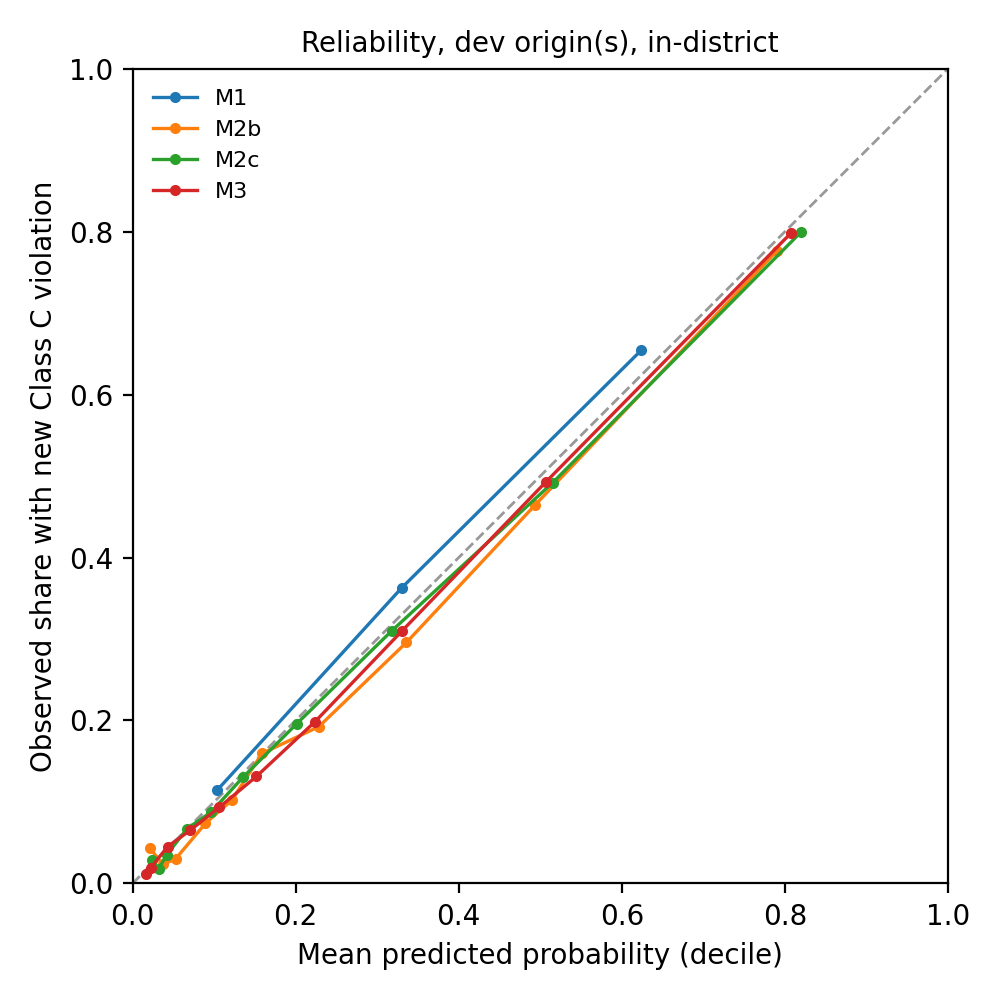
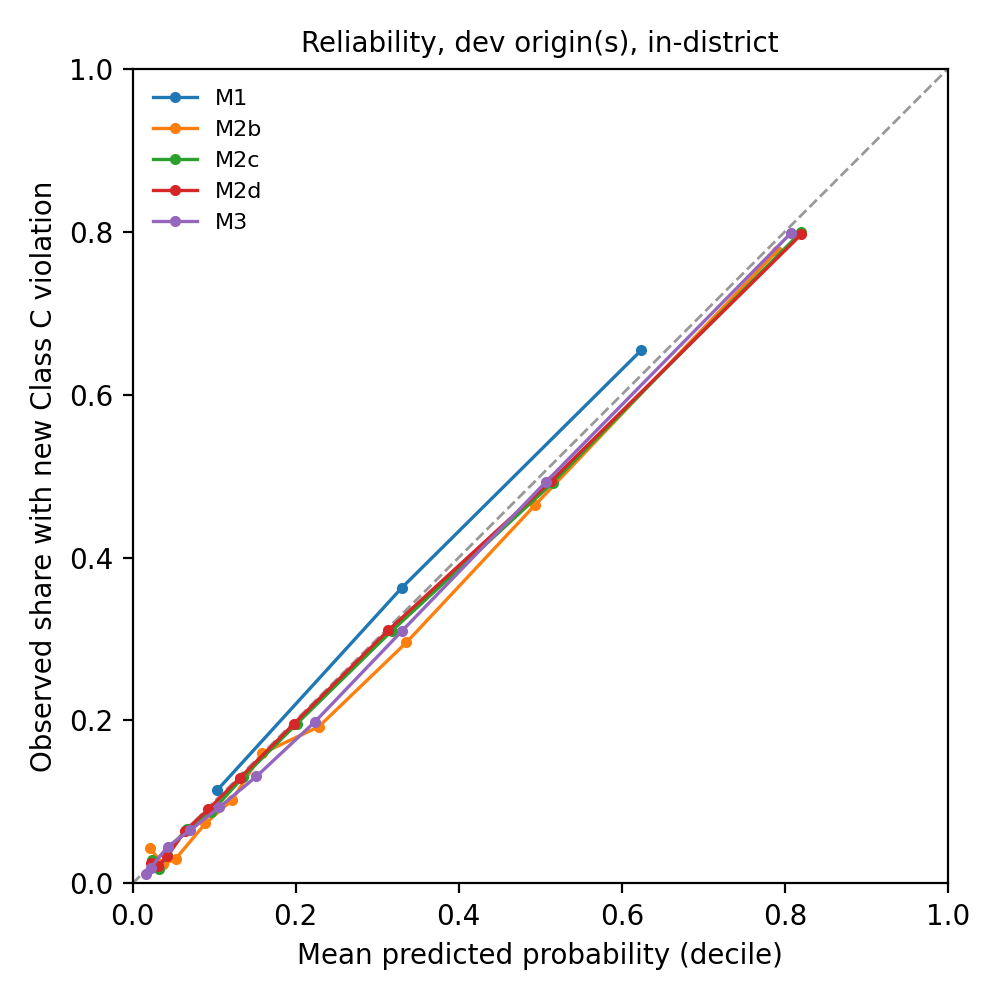
Add M2d (district context) as fifth compared model
Pre-freeze design change, logged in docs/decisions.md. Dev: district O/E
vs event-rate correlation 0.80 -> 0.10; held-out dBrier -0.0007; districts
with <10% recall at a citywide cut 2 -> 8. Paper v0.2, AAG abstract updated.

diff --git a/code/05_evaluate.py b/code/05_evaluate.py
@@ -24,7 +24,7 @@ from sklearn.metrics import roc_auc_score
 
 from common import FIGURES, OUT, SEED, TABLES, TOP_K_SHARE
 
-PROB_MODELS = ["M1", "M2a", "M2b", "M2c", "M3"]
+PROB_MODELS = ["M1", "M2a", "M2b", "M2c", "M2d", "M3"]
 B = 500
 
 
@@ -104,21 +104,23 @@ def reliability_plot(df, cols, path, title):
     fig.tight_layout(); fig.savefig(path, dpi=200); plt.close(fig)
 
 
-def district_plot(by, model, path):
-    """Observed/expected by district against district event rate (H4)."""
-    fig, ax = plt.subplots(figsize=(5.5, 4))
-    for held, mk, lab in [(0, "o", "in-district"), (1, "^", "held-out district")]:
-        d = by[by["held_out"] == held]
-        ax.scatter(d["event_rate"], d["o_e_ratio"], s=d["n"] / 40, marker=mk,
-                   alpha=0.7, label=lab, edgecolor="white", linewidth=0.5)
-    ax.axhline(1, color="#999", lw=1, ls="--")
-    for _, r in by[(by["o_e_ratio"] < 0.6) | (by["o_e_ratio"] > 1.1)].iterrows():
-        ax.annotate(str(int(r["cd"])), (r["event_rate"], r["o_e_ratio"]), fontsize=7,
-                    xytext=(3, 3), textcoords="offset points", color="#444")
-    ax.set_xlabel("District event rate (share of scored buildings with a new Class C)")
-    ax.set_ylabel("Observed / expected ({})".format(model))
-    ax.spines[["top", "right"]].set_visible(False)
-    ax.legend(frameon=False, fontsize=8, loc="lower right")
+def district_plot(bys, path):
+    """Observed/expected by district against district event rate, one panel per model (H4)."""
+    fig, axes = plt.subplots(1, len(bys), figsize=(5 * len(bys), 4), sharey=True)
+    for ax, (model, by) in zip(np.atleast_1d(axes), bys.items()):
+        for held, mk, lab in [(0, "o", "in-district"), (1, "^", "held-out district")]:
+            d = by[by["held_out"] == held]
+            ax.scatter(d["event_rate"], d["o_e_ratio"], s=d["n"] / 40, marker=mk,
+                       alpha=0.7, label=lab, edgecolor="white", linewidth=0.5)
+        ax.axhline(1, color="#999", lw=1, ls="--")
+        for _, r in by[(by["o_e_ratio"] < 0.6) | (by["o_e_ratio"] > 1.1)].iterrows():
+            ax.annotate(str(int(r["cd"])), (r["event_rate"], r["o_e_ratio"]), fontsize=7,
+                        xytext=(3, 3), textcoords="offset points", color="#444")
+        ax.set_title(model, fontsize=10)
+        ax.set_xlabel("District event rate")
+        ax.spines[["top", "right"]].set_visible(False)
+    np.atleast_1d(axes)[0].set_ylabel("Observed / expected")
+    np.atleast_1d(axes)[0].legend(frameon=False, fontsize=8, loc="lower right")
     fig.tight_layout(); fig.savefig(path, dpi=200); plt.close(fig)
 
 
@@ -142,42 +144,56 @@ def main(stage):
                                                "auc", "o_e_ratio", "cal_slope"]]
     print(show.round(4).to_string(index=False))
 
-    # 2. Paired model contrasts on the in-district rows (RQ1-RQ3).
-    ind = df[df["spatial_holdout"] == 0]
-    pairs = [("M2b", "M2a", "H1: timing/type vs counts"),
-             ("M2a", "M1", "logistic counts vs binned baseline"),
-             ("M2c", "M2b", "H2: + complaints"),
-             ("M3", "M2c", "H3: boosting vs logistic")]
+    # 2. Paired model contrasts (RQ1-RQ4). H1-H3 on in-district rows; the
+    #    district-context contrast also on held-out districts, where it matters.
+    pairs = [("M2b", "M2a", "H1: timing/type vs counts", "in_district"),
+             ("M2a", "M1", "logistic counts vs binned baseline", "in_district"),
+             ("M2c", "M2b", "H2: + complaints", "in_district"),
+             ("M3", "M2c", "H3: boosting vs logistic", "in_district"),
+             ("M2d", "M2c", "H4b: + district context", "in_district"),
+             ("M2d", "M2c", "H4b: + district context", "held_out_district")]
     con = []
-    for a, b, lab in pairs:
-        est, lo, hi = paired_bootstrap(ind, a, b)
-        con.append(dict(contrast="{} - {}".format(a, b), hypothesis=lab,
+    for a, b, lab, split in pairs:
+        d = df[df["spatial_holdout"] == int(split == "held_out_district")]
+        est, lo, hi = paired_bootstrap(d, a, b)
+        con.append(dict(contrast="{} - {}".format(a, b), hypothesis=lab, split=split,
                         d_brier=est, ci_lo=lo, ci_hi=hi))
     con = pd.DataFrame(con)
     con.to_csv(TABLES/"{}_contrasts.csv".format(stage), index=False)
     print(con.to_string(index=False))
 
-    # 3. Community-district reliability (RQ4). Threshold for recall is the
-    #    citywide top-10% cut, as a product would apply it.
-    best = "M2c" if "M2c" in df else probs[0]
-    cut = np.sort(df[best].values)[::-1][max(1, int(len(df) * TOP_K_SHARE)) - 1]
-    d = df.dropna(subset=["cd"]).assign(flag=lambda x: x[best] >= cut)
+    # 3. Community-district reliability (RQ4), with and without district
+    #    context. Recall uses each model's citywide top-10% cut, as a product
+    #    would apply it.
+    bys = {}
+    for model in ("M2c", "M2d"):
+        by = by_district(df, model)
+        by.to_csv(TABLES/"{}_by_cd_{}.csv".format(stage, model), index=False)
+        print("O/E across districts ({}): median {:.2f}, IQR {:.2f}-{:.2f}, range {:.2f}-{:.2f}; "
+              "recall at citywide cut {:.2f}-{:.2f}; Spearman(O/E, event rate) {:.2f}".format(
+                  model, by["o_e_ratio"].median(), *by["o_e_ratio"].quantile([.25, .75]),
+                  by["o_e_ratio"].min(), by["o_e_ratio"].max(),
+                  by["recall_citywide_cut"].min(), by["recall_citywide_cut"].max(),
+                  by[["o_e_ratio", "event_rate"]].corr("spearman").iloc[0, 1]))
+        bys[model] = by
+    district_plot(bys, FIGURES/"{}_district_calibration.png".format(stage))
+    ind = df[df["spatial_holdout"] == 0]
+    reliability_plot(ind, ["M1", "M2b", "M2c", "M2d", "M3"], FIGURES/"{}_reliability.png".format(stage),
+                     "Reliability, {} origin(s), in-district".format(stage))
+
+
+def by_district(df, model):
+    cut = np.sort(df[model].values)[::-1][max(1, int(len(df) * TOP_K_SHARE)) - 1]
+    d = df.dropna(subset=["cd"]).assign(flag=lambda x: x[model] >= cut)
     by = d.groupby("cd").apply(lambda g: pd.Series({
         "n": len(g), "events": g["y"].sum(), "event_rate": g["y"].mean(),
-        "mean_pred": g[best].mean(), "o_e_ratio": g["y"].mean() / g[best].mean(),
-        "brier": np.mean((g[best] - g["y"]) ** 2),
+        "mean_pred": g[model].mean(), "o_e_ratio": g["y"].mean() / g[model].mean(),
+        "brier": np.mean((g[model] - g["y"]) ** 2),
         "recall_citywide_cut": g.loc[g["flag"], "y"].sum() / max(1, g["y"].sum()),
         "share_flagged": g["flag"].mean(),
         "c365_mean": g["c365"].mean(),
         "held_out": int(g["spatial_holdout"].iat[0])}))
-    by.reset_index().to_csv(TABLES/"{}_by_cd_{}.csv".format(stage, best), index=False)
-    print("\nO/E across districts ({}): median {:.2f}, IQR {:.2f}-{:.2f}, range {:.2f}-{:.2f}".format(
-        best, by["o_e_ratio"].median(), *by["o_e_ratio"].quantile([.25, .75]),
-        by["o_e_ratio"].min(), by["o_e_ratio"].max()))
-
-    district_plot(by.reset_index(), best, FIGURES/"{}_district_calibration.png".format(stage))
-    reliability_plot(ind, ["M1", "M2b", "M2c", "M3"], FIGURES/"{}_reliability.png".format(stage),
-                     "Reliability, {} origin(s), in-district".format(stage))
+    return by.reset_index()
 
 
 if __name__ == "__main__":

diff --git a/code/03_build_panel.py b/code/03_build_panel.py
@@ -126,6 +126,31 @@ def build_origin(v, c, t, top_cats):
     return df.drop(columns=["last_c", "first_c", "first_comp"]).reset_index()
 
 
+CD_CONTEXT = ["cd_share_c365", "cd_share_c90", "cd_mean_comp365"]
+
+
+def add_district_context(panel):
+    """District-level context known at t (M2d): built from features, never outcomes.
+
+    For each community district x origin, over in-scope buildings:
+      cd_share_c365    share with any Class C in the past year
+      cd_share_c90     share with any Class C in the past 90 days
+      cd_mean_comp365  mean log(1 + complaints in the past year)
+    Buildings without a district get the citywide value at that origin.
+    Held-out districts get their own context: it uses only their records up to
+    t, never their outcomes and never anything learned in fitting.
+    """
+    x = panel.assign(_c365=(panel["c365"] > 0).astype(float),
+                     _c90=(panel["c90"] > 0).astype(float),
+                     _comp=np.log1p(panel["comp365"]))
+    agg = {"_c365": "cd_share_c365", "_c90": "cd_share_c90", "_comp": "cd_mean_comp365"}
+    for src, dst in agg.items():
+        by_cd = x.groupby(["origin", "cd"])[src].transform("mean")
+        city = x.groupby("origin")[src].transform("mean")
+        panel[dst] = by_cd.fillna(city)
+    return panel
+
+
 def building_geo(v):
     """Locate each building in a community district for spatial analysis.
 
@@ -180,6 +205,7 @@ if __name__ == "__main__":
     geo = building_geo(v)
     geo.to_csv(FINAL/"buildings_geo.csv", index=False)
     panel = panel.merge(geo[["buildingid", "cd"]], on="buildingid", how="left")
+    panel = add_district_context(panel)
     panel.to_parquet(FINAL/"panel.parquet", index=False)
     print("panel rows {:,}; buildings {:,}; missing CD {:.2%}".format(
         len(panel), panel["buildingid"].nunique(), panel["cd"].isna().mean()))

diff --git a/code/04_models.py b/code/04_models.py
@@ -5,6 +5,7 @@
   M2a  logistic: counts + season
   M2b  logistic: + timing, repetition, problem type, history length
   M2c  logistic: + complaints
+  M2d  logistic: + district context known at t (added 2026-10-06, pre-freeze)
   M3   gradient boosting on the M2c inputs
 
 The layers are compared, not chained: no model consumes another's output.
@@ -37,6 +38,7 @@ KAPPA = 20  # M1 smoothing strength (pseudo-observations at the overall rate)
 COUNTS = ["c365", "c90"]
 TIMING = ["days_since_c", "never_c", "c730", "c365_days", "c365_months", "trend",
           "c365_rentimp", "history_months"]
+CD_CONTEXT = ["cd_share_c365", "cd_share_c90", "cd_mean_comp365"]  # see 03_build_panel.py
 COMPLAINTS_BASE = ["comp90", "comp365", "comp730", "comp365_emerg", "comp365_months",
                    "comp_trend"]
 
@@ -47,7 +49,8 @@ def feature_sets(cols):
     m2a = COUNTS + ["half_jul"]
     m2b = m2a + TIMING + cat
     m2c = m2b + COMPLAINTS_BASE + ccat
-    return {"M2a": m2a, "M2b": m2b, "M2c": m2c, "M3": m2c}
+    m2d = m2c + CD_CONTEXT
+    return {"M2a": m2a, "M2b": m2b, "M2c": m2c, "M2d": m2d, "M3": m2c}
 
 
 def spec_hash(fs):
@@ -85,7 +88,8 @@ def _log1p_nonneg(X):
 
 def make_lr(C, cols):
     tf = FunctionTransformer(lambda X: np.column_stack([
-        _log1p_nonneg(X[:, i]) if c not in ("trend", "comp_trend", "half_jul", "never_c")
+        _log1p_nonneg(X[:, i])
+        if c not in ("trend", "comp_trend", "half_jul", "never_c") and not c.startswith("cd_")
         else X[:, i] for i, c in enumerate(cols)]))
     return make_pipeline(tf, StandardScaler(),
                          LogisticRegression(C=C, max_iter=2000))

diff --git a/paper/manuscript.md b/paper/manuscript.md
@@ -2,7 +2,7 @@
 
 **Author.** Hsuan Lo, DDes (Harvard University). Independent Researcher. Correspondence: hsuanlo@alumni.harvard.edu
 
-**Status.** Working paper v0.1, 6 October 2026. Sections 1–6 are complete drafts. Section 7 reports **development-stage** results only (prediction origin 1 January 2023), produced before the model specification was frozen. The 2024–2025 test origins are sealed in code and have not been scored. Every number marked ⟨dev⟩ will be superseded by test-set results. Placeholders read `[[TEST: …]]`.
+**Status.** Working paper v0.2, 6 October 2026 (v0.2 adds M2d, district context). Sections 1–6 are complete drafts. Section 7 reports **development-stage** results only (prediction origin 1 January 2023), produced before the model specification was frozen. The 2024–2025 test origins are sealed in code and have not been scored. Every number marked ⟨dev⟩ will be superseded by test-set results. Placeholders read `[[TEST: …]]`.
 
 ---
 
@@ -10,7 +10,7 @@
 
 *(Working-paper abstract. The 250-word AAG version is in `paper/abstract_aag2027.md`.)*
 
-A renter about to sign a lease in New York City can look up a building's housing-code record, but a list of past violations does not say whether hazards are likely to recur. We ask whether the timing, type and repetition of public maintenance records predict a new immediately hazardous (Class C) violation in the next six months better than a simple count does, and where in the city that predictive ability holds. Using every Class C violation and housing-maintenance complaint recorded by the Department of Housing Preservation and Development since 2017, we build a building-by-half-year panel and compare three layers of increasing complexity: a smoothed count baseline, nested logistic regressions that add event history and complaints, and gradient boosting. The design is built against leakage. Features use only records approved at least 30 days before each prediction date. Today's case status and building attributes are excluded. The model is frozen before it is scored on 2024–2025. A fifth of community districts is withheld from all fitting so that spatial transfer can be separated from temporal drift. We evaluate probabilities, not only rankings, with the Brier score, calibration and precision at a fixed 10% review budget. At the development origin, ⟨dev⟩ event history reduced the Brier score by 9.8% relative to a count-only logistic model, and complaints by a further 5.4%. Gradient boosting added nothing measurable over logistic regression. Among the top-scored 10% of buildings, 80% received a Class C violation within six months, against 71% when buildings were ranked by their violation count alone. Citywide calibration was good, but district-level observed-to-expected ratios ranged from 0.33 to 1.13 and tracked district event rates closely (Spearman ρ = 0.80). Under a citywide threshold, the share of eventual hazards flagged within a district ranged from 6% to 63%. Recorded Class C violations more than tripled between 2015 and 2024, so calibration under enforcement drift is a central result rather than a technicality. Finally, we link 3,885 active rental listings to the building register to measure how much of the market any record-based warning can cover. Where records are sparse, a low score is an absence of evidence, and the paper treats that absence as a geographic finding about whose housing problems become visible to the state.
+A renter about to sign a lease in New York City can look up a building's housing-code record, but a list of past violations does not say whether hazards are likely to recur. We ask whether the timing, type and repetition of public maintenance records predict a new immediately hazardous (Class C) violation in the next six months better than a simple count does, and where in the city that predictive ability holds. Using every Class C violation and housing-maintenance complaint recorded by the Department of Housing Preservation and Development since 2017, we build a building-by-half-year panel and compare three layers of increasing complexity: a smoothed count baseline, nested logistic regressions that add event history, complaints and finally district context, and gradient boosting. The design is built against leakage. Features use only records approved at least 30 days before each prediction date. Today's case status and building attributes are excluded. The model is frozen before it is scored on 2024–2025. A fifth of community districts is withheld from all fitting so that spatial transfer can be separated from temporal drift. We evaluate probabilities, not only rankings, with the Brier score, calibration and precision at a fixed 10% review budget. At the development origin, ⟨dev⟩ event history reduced the Brier score by 9.8% relative to a count-only logistic model, and complaints by a further 5.4%. Gradient boosting added nothing measurable over logistic regression. Among the top-scored 10% of buildings, 80% received a Class C violation within six months, against 71% when buildings were ranked by their violation count alone. Citywide calibration was good, but without place information district-level observed-to-expected ratios ranged from 0.33 to 1.13 and tracked district event rates closely (Spearman ρ = 0.80). Adding district context known at the prediction date removed most of that pattern (ρ = 0.10). It also reduced the number of districts miscalibrated by more than 20% from eight to two, at almost no cost in overall accuracy. Better calibration, however, sharpened a second inequality. Under a single citywide warning threshold, the number of districts in which fewer than one in ten eventual hazards is flagged rose from two to eight. A well-calibrated citywide score and an evenly informative warning are different goals. Recorded Class C violations more than tripled between 2015 and 2024, so calibration under enforcement drift is a central result rather than a technicality. Finally, we link 3,885 active rental listings to the building register to measure how much of the market any record-based warning can cover. Where records are sparse, a low score is an absence of evidence, and the paper treats that absence as a geographic finding about whose housing problems become visible to the state.
 
 **Keywords:** housing quality, code enforcement, administrative data, predictive modeling, calibration, spatial transferability, rental information, New York City
 
@@ -27,7 +27,7 @@ The question is easy to answer badly. Administrative housing records are generat
 We make three contributions.
 
 1. **Incremental predictive value.** We compare nested models on identical rows and test whether event history (recency, burstiness versus repetition, problem type) and complaint signals add information beyond the count a renter could compute by eye. Gradient boosting has to beat logistic regression on the same inputs, out of time and out of place, before its complexity is accepted.
-2. **Spatial reliability as an outcome.** We withhold a fifth of community districts from all model fitting. Comparing those districts with the rest at the same prediction date separates spatial transfer from temporal drift. We report calibration (whether a predicted 20% means 20%) by district, not only citywide discrimination.
+2. **Spatial reliability as an outcome.** We withhold a fifth of community districts from all model fitting. Comparing those districts with the rest at the same prediction date separates spatial transfer from temporal drift. We report calibration (whether a predicted 20% means 20%) by district, not only citywide discrimination. We then test how much of the district-level error is removed by giving the model place information known at the prediction date.
 3. **Coverage and abstention.** Linking 3,885 active rental listings to HPD buildings, we measure the share of the market for which a record-based warning can be offered at all. We argue that "no record" must be presented as missing evidence, not as safety.
 
 These contributions fit the 2027 AAG theme on geographic methods, tools and techniques for knowledge and justice. The geographic object is not a risk map. It is the uneven reliability of a public-data tool across the city it claims to describe.
@@ -105,7 +105,8 @@ A building is in scope at *t* if it had any Class C violation or HPD complaint i
 | Season | July-origin indicator | all |
 | Timing and repetition | days since last Class C; 2-year count; distinct inspection days and months in the last year; trend; history length | M2b+ |
 | Severity and type | rent-impairing count; counts by 11 problem types (last year) | M2b+ |
-| Complaints | complaints in 90/365/730 days; emergency problems; distinct complaint months; complaint trend; counts in 8 major categories | M2c, M3 |
+| Complaints | complaints in 90/365/730 days; emergency problems; distinct complaint months; complaint trend; counts in 8 major categories | M2c, M2d, M3 |
+| District context | share of the district's in-scope buildings with a Class C in the last 365 / 90 days; district mean log(1 + past-year complaints). All computed from features at *t*, never outcomes | M2d |
 
 Trend is a difference in daily event rates between the last 90 days and the preceding 275, $C^{90}/90 - (C^{365} - C^{90})/275$. With nine events in each period, the last 90 days run at about three times the earlier daily rate and trend ≈ +0.067 per day. A raw difference $C^{90} - C^{365}$ would read this building as flat or declining.
 
@@ -119,11 +120,13 @@ A bin with 100 observations and 20 events, with $\bar p$ = 10%, gives $(20+2)/12
 
 **M2, logistic regression.** Three nested specifications use the same estimator,
 $$\hat p^{(2)}_{it} = \sigma(\eta_{it}),\quad \eta_{it} = \alpha + \beta_1\log(1+C^{365}_{it}) + \beta_2\log(1+C^{90}_{it}) + \theta^\top Z_{it} + \gamma\,\text{Jul}_t,$$
-where $Z$ is empty in M2a, adds timing, repetition and type in M2b, and adds complaints in M2c. Counts enter as $\log(1+x)$ and all inputs are standardized. The L2 penalty is selected on the tuning origin. Coefficients are conditional associations, not effects.
+where $Z$ is empty in M2a, adds timing, repetition and type in M2b, adds complaints in M2c, and adds district context in M2d. Counts enter as $\log(1+x)$ and all inputs are standardized. The L2 penalty is selected on the tuning origin. Coefficients are conditional associations, not effects.
 
 **M3, gradient boosting.** A histogram gradient-boosted tree ensemble,
 $$F_M(X) = F_0 + \nu\sum_{m=1}^{M} f_m(X),\qquad \hat p^{(3)} = \sigma(F_M(X)),$$
 is fit on the M2c inputs, with early stopping and a small grid over learning rate and leaf count selected on the tuning origin. M3 can represent interactions such as "recent complaints matter only when the same problem recurs across months" without their being specified. If it does not beat M2c out of time and out of place, M2c is preferred.
+
+**M2d, district context (added before the freeze).** M2a–M2c and M3 contain no information about place. M2d adds three district-level features to M2c, each computed at *t* from the in-scope buildings of the building's community district: the share with any Class C in the past year, the share with any in the past 90 days, and the mean log past-year complaint count. These summarize the district's *recorded* hazard environment using only information available at *t*. Held-out districts receive their own context values, which depend only on their records up to *t*, never on their outcomes or on anything learned in fitting. M2d was added after the development results in Section 7.3 showed systematic district-level miscalibration, and before any test-origin scoring (`docs/decisions.md`). It is a fifth compared model, not a replacement for M2c. Comparing M2c with M2d asks how much of the spatial unreliability of a place-blind model is removed by telling it where it is.
 
 ## 6. Validation and evaluation
 
@@ -190,17 +193,19 @@ The panel has 832,020 building-origin rows covering 158,612 buildings. 0.05% of 
 | | M2a counts | 0.1288 | 0.242 | 0.719 | 0.332 | 0.768 | 1.07 | 1.00 |
 | | M2b + history and type | 0.1162 | 0.317 | 0.776 | 0.359 | 0.841 | 0.93 | 0.99 |
 | | M2c + complaints | **0.1099** | **0.354** | **0.799** | **0.369** | 0.860 | 0.96 | 0.99 |
+| | M2d + district context | **0.1098** | **0.354** | 0.797 | 0.368 | 0.861 | 0.97 | 0.99 |
 | | M3 boosting | **0.1098** | **0.354** | 0.798 | 0.369 | **0.864** | 0.95 | 1.02 |
 | Held-out districts | M1r | — | — | 0.662 | 0.338 | 0.790 | — | — |
 | | M1 | 0.1251 | 0.205 | 0.619 | 0.316 | 0.754 | 1.01 | 0.99 |
 | | M2a | 0.1220 | 0.225 | 0.658 | 0.336 | 0.759 | 1.01 | 0.99 |
 | | M2b | 0.1120 | 0.288 | 0.711 | 0.364 | 0.831 | 0.90 | 0.95 |
 | | M2c | 0.1065 | 0.323 | 0.738 | 0.377 | 0.848 | 0.94 | 0.95 |
-| | M3 | 0.1059 | 0.327 | 0.746 | 0.381 | 0.855 | 0.92 | 0.99 |
+| | M2d | **0.1059** | **0.327** | **0.749** | **0.383** | 0.851 | 0.94 | 0.95 |
+| | M3 | **0.1059** | **0.327** | 0.746 | 0.381 | **0.855** | 0.92 | 0.99 |
 
 M1r, a plain sort by past-year count, ranks better than the binned M1 because the bins discard within-bin ordering. It produces no probability, so it has no Brier score.
 
-**Table 6. Paired differences in Brier score, in-district rows (negative favours the first model).** 95% intervals from 500 building-level bootstrap resamples.
+**Table 6. Paired differences in Brier score (negative favours the first model).** In-district rows unless stated. 95% intervals from 500 building-level bootstrap resamples.
 
 | Contrast | Hypothesis | ΔBrier | 95% CI | Relative |
 |---|---|---|---|---|
@@ -208,6 +213,8 @@ M1r, a plain sort by past-year count, ranks better than the binned M1 because th
 | M2b − M2a | **H1** event history and type | −0.0126 | [−0.0134, −0.0118] | −9.8% |
 | M2c − M2b | **H2** complaints | −0.0063 | [−0.0068, −0.0058] | −5.4% |
 | M3 − M2c | **H3** boosting | −0.0001 | [−0.0004, +0.0001] | −0.1% |
+| M2d − M2c | **H4b** district context, in-district | −0.00004 | [−0.0002, +0.0001] | −0.04% |
+| M2d − M2c | **H4b** district context, *held-out districts* | −0.0007 | [−0.0011, −0.0003] | −0.6% |
 
 At the development origin, H1 and H2 are supported and H3 is not. Most of the gain over the count a renter could read off the record comes from *how* events are distributed in time and type. A further, smaller gain comes from complaints. Flexible trees add nothing that logistic regression on well-constructed features does not already capture. In practical terms, among the 10% of buildings ranked highest by M2c, 79.9% received a Class C violation within six months, against 71.5% when ranking by past-year count alone. The list also captured 36.9% rather than 33.0% of all buildings that went on to receive one.
 
@@ -223,7 +230,24 @@ Calibration *within* districts tells a different story (Figure 3; `out/tables/de
 
 The consequence for a renter depends on how the score is used. Under a single citywide threshold (the top 10% of scores), within-district recall ranges from 6% to 63% and tracks the district event rate (ρ = 0.79). In low-rate districts, nearly every building that later receives a Class C violation goes unflagged. Over-predicted probabilities and under-flagging are two views of the same problem: a citywide warning system is not equally informative everywhere, and it is least informative where hazards are rare *as recorded*. Whether those districts have fewer hazards or fewer reports of them is a question the records cannot answer on their own. We return to it in Section 8.
 
-![Figure 3. District observed/expected ratio (M2c) against district event rate, development origin. Marker size is proportional to scored buildings. Labelled districts have O/E below 0.6 or above 1.1.](../out/figures/dev_district_calibration.png)
+**Adding district context (M2d).** Telling the model where a building is removes most of the systematic pattern (Figure 3, right; Table 8). The correlation between district O/E and district event rate falls from 0.80 to 0.10. Mean absolute calibration error across districts falls from 0.117 to 0.090, and the number of districts miscalibrated by more than 20% falls from eight to two. The improvement is largest in the held-out districts the model never saw (mean |O/E − 1| from 0.183 to 0.114), which is also the only place where M2d's overall Brier gain is distinguishable from zero (Table 6). Staten Island remains the exception. Its two lowest-rate districts (502, 503) are still over-predicted about twofold (O/E 0.48 and 0.47), because a 2–3% event rate lies at the edge of what the district features span.
+
+**Table 8. District-level reliability with and without place information (59 community districts, development origin).**
+
+| | M2c (no place) | M2d (district context) |
+|---|---|---|
+| Median O/E (IQR) | 0.93 (0.86–1.00) | 0.97 (0.91–1.04) |
+| Range of O/E | 0.33–1.13 | 0.47–1.17 |
+| Mean \|O/E − 1\| (held-out districts) | 0.117 (0.183) | 0.090 (0.114) |
+| Districts with \|O/E − 1\| > 0.2 | 8 | 2 |
+| Spearman ρ(O/E, district event rate) | 0.80 | 0.10 |
+| Within-district recall at citywide top-10% cut | 6%–63% | 0%–68% |
+| Districts with recall < 10% | 2 | 8 |
+| Spearman ρ(recall, district event rate) | 0.79 | 0.86 |
+
+**Calibration and even coverage pull apart.** Better calibration sharpened the other inequality. Because M2d now correctly assigns lower probabilities in low-rate districts, a single citywide threshold flags even fewer buildings there. The number of districts in which fewer than one in ten eventual hazards is flagged rises from two to eight, and in one district (101) none is. Read one way, this is correct: hazards really are rarer there *as recorded*, and the threshold is spent where they are most likely. Read another way, a renter in those districts receives almost no warnings at all, including for the buildings that do go on to receive a Class C violation. A calibrated citywide probability and an evenly informative warning are different design goals. The choice between them — one threshold, district-relative thresholds, or no threshold with the probability shown alongside the district's base rate — is a normative decision, not a modelling one. A record-based tool should make that decision explicit.
+
+![Figure 3. District observed/expected ratio against district event rate, development origin, without (M2c, left) and with (M2d, right) district context. Marker size is proportional to scored buildings. Labelled districts have O/E below 0.6 or above 1.1.](../out/figures/dev_district_calibration.png)
 
 [[TODO: companion community-district map of O/E (needs the DCP community-district boundary file).]]
 
@@ -258,7 +282,7 @@ A record-based warning can be issued for about three in five listings. For the r
 
 **What a record can and cannot tell a renter.** If event history beats counts (H1), a disclosure tool should present timing and recurrence, not totals. If it does not, the honest product is the record itself.
 
-**Where the tool is trustworthy.** District-level calibration shows where a single citywide score misleads. A model that is well calibrated on average but under-predicts in districts with low complaint propensity will tell tenants there that their buildings are safer than they are. This is a knowledge-and-justice problem expressed through a geographic method. The burden of under-recording falls on the renters least served by the complaint system.
+**Where the tool is trustworthy.** District-level calibration shows where a single citywide score misleads. A model that is well calibrated on average but under-predicts in districts with low complaint propensity will tell tenants there that their buildings are safer than they are. This is a knowledge-and-justice problem expressed through a geographic method. The burden of under-recording falls on the renters least served by the complaint system. Adding place information repairs calibration (M2d) but cannot repair recording. It also exposes a second choice, between calibrated probabilities and evenly distributed warnings, that a tool designer makes whether or not they acknowledge it.
 
 **Abstention as a design principle.** Buildings with no recent record are out of scope by construction. For a renter, "insufficient record" is different information from "low risk". We argue it should be shown as such.
 
@@ -288,6 +312,8 @@ A record-based warning can be issued for about three in five listings. For the r
 | `comp_trend` | As `trend`, on complaints |
 | `comp365_cat_*` | Last-year problem counts in the 8 largest complaint categories (selected on pre-2023-07 data) and "other" |
 | `half_jul` | 1 for July origins |
+| `cd_share_c365`, `cd_share_c90` | Share of the community district's in-scope buildings with any Class C in the last 365 / 90 days (M2d) |
+| `cd_mean_comp365` | District mean of log(1 + past-year complaints) over in-scope buildings (M2d) |
 
 ## Appendix B. Problem-type mapping
 

diff --git a/paper/abstract_aag2027.md b/paper/abstract_aag2027.md
@@ -10,9 +10,9 @@
 
 **Title:** Before Signing the Lease: Predictive Value and Spatial Reliability of Housing Maintenance Records in New York City
 
-**Abstract (246 words):**
+**Abstract (248 words):**
 
-Renters in New York City can look up a building's housing code violations before signing a lease, but a list of past violations does not say whether hazards will recur. This paper asks whether the timing, type, and repetition of public maintenance records forecast new immediately hazardous violations better than a simple count, and where in the city such forecasts can be trusted. Using every immediately hazardous violation and tenant complaint recorded by the city's housing agency since 2017, we build a panel of 832,000 building-half-years and compare a count baseline, nested logistic regressions, and gradient boosting. Forecasts use only records public thirty days before each forecast date, models are frozen before testing on 2024 and 2025, and one fifth of community districts is withheld from all fitting. In a development year, event history cut probability error by ten percent relative to counts, complaints cut it further, and gradient boosting added nothing measurable. Among the tenth of buildings ranked highest, eighty percent received a new hazardous violation within six months, against seventy-one percent when ranked by counts. Reliability was spatially uneven: the model overstated risk up to threefold in districts with few recorded hazards, and a single citywide warning threshold caught between six and sixty-three percent of eventual hazards depending on the district. Linking 3,885 rental listings shows that only three in five can receive any record-based warning. Public-data housing tools should report where they are reliable and treat missing records as missing evidence, not safety.
+Renters in New York City can look up a building's housing code violations before signing a lease, but a list of past violations does not say whether hazards will recur. This paper asks whether the timing, type, and repetition of public maintenance records forecast new immediately hazardous violations better than a simple count, and where in the city such forecasts can be trusted. Using every immediately hazardous violation and tenant complaint recorded by the city's housing agency since 2017, we build a panel of 832,000 building-half-years and compare a count baseline, nested logistic regressions, and gradient boosting. Forecasts use only records public thirty days before each forecast date, models are frozen before testing on 2024 and 2025, and one fifth of community districts is withheld from all fitting. In a development year, event history cut probability error by ten percent relative to counts, complaints cut it further, and gradient boosting added nothing measurable. Among the tenth of buildings ranked highest, eighty percent received a new hazardous violation within six months, against seventy-one percent when ranked by counts. Without place information, the model overstated risk up to threefold where few hazards are recorded. Adding district context largely corrected this, yet a single citywide warning threshold then flagged under a tenth of eventual hazards in eight districts. Linking 3,885 rental listings shows that only three in five can receive any record-based warning. Public-data housing tools should report where they are reliable and treat missing records as missing evidence, not safety.
 
 **Keywords:** housing quality, administrative data, predictive modeling, spatial reliability, New York City
 
@@ -23,6 +23,7 @@ Renters in New York City can look up a building's housing code violations before
 * Each number above maps to `out/tables/dev_overall.csv`, `dev_contrasts.csv`, `dev_by_cd_M2c.csv` and `rentcast_coverage.csv`:
   * "cut probability error by ten percent": Brier M2b vs M2a, 0.1288 → 0.1162 (−9.8%).
   * "eighty percent … seventy-one percent": precision@10% M2c 0.799 vs M1r 0.715.
-  * "up to threefold": district O/E minimum 0.33 (CD 503).
-  * "six and sixty-three percent": within-district recall at the citywide top-10% cut, 0.062–0.625.
+  * "up to threefold": M2c district O/E minimum 0.33 (CD 503).
+  * "largely corrected": M2d, Spearman(O/E, district event rate) 0.80 → 0.10; districts with |O/E−1| > 0.2 from 8 to 2.
+  * "under a tenth … in eight districts": M2d within-district recall < 0.10 at the citywide top-10% cut (`dev_by_cd_M2d.csv`).
   * "three in five": 58.6% of listings in scope.

diff --git a/README.md b/README.md
@@ -21,7 +21,7 @@ Status: **v0.1 working paper, development stage.** The pipeline runs end to end 
 * **Outcome:** ≥1 Class C violation inspected in the next 6 months.
 * **Information set:** records approved ≥30 days before the origin. Never today's case status, never today's building attributes.
 * **Scope:** buildings with any Class C or complaint in the prior 24 months. Everything else is "insufficient record", not "low risk".
-* **Models, compared and not chained:** M1 count baseline → M2a/b/c nested logistic (counts → + event history and type → + complaints) → M3 gradient boosting on M2c inputs.
+* **Models, compared and not chained:** M1 count baseline → M2a/b/c/d nested logistic (counts → + event history and type → + complaints → + district context) → M3 gradient boosting on M2c inputs.
 * **Validation:** train 2020–22, tune 2022-07, calibrate 2023-01, **test 2024–25 (sealed)**. 20% of community districts are withheld from all fitting.
 * **Metrics:** Brier score (primary), calibration, precision and recall at a 10% review budget, AUC, coverage. Building-clustered paired bootstrap.
 
@@ -63,7 +63,7 @@ out/      tables/ and figures/ (committed), predictions (ignored)
 
 These have to be settled and logged in `docs/decisions.md` **before** `make freeze`. After the freeze they can only be run as labelled sensitivity analyses.
 
-1. **District context feature (M2d)?** Dev results show citywide calibration is good, but within-district O/E runs from 0.33 to 1.13 and tracks the district event rate (ρ = 0.80). Adding a district-level feature known at *t* (for example, the share of the district's buildings with a Class C in the past year) would likely fix much of this. The cost is that it makes the "no place information" model a weaker test of spatial transfer. Recommendation: add M2d as a *fifth* compared model rather than replacing M2c.
+1. ~~District context feature (M2d)~~ **Done (6 Oct).** It fixes systematic district miscalibration (ρ 0.80 → 0.10) but concentrates citywide warnings further. **New open decision:** which warning rule the paper recommends — a citywide threshold, district-relative thresholds, or probabilities shown alongside the district base rate. Decide before the freeze if it changes any primary metric.
 2. **Confirm the 2019 Class C break.** Pests rose from ~0.7k to 46.7k, and doors/egress from 3.9k to 19.2k. Find the legal or administrative source and cite it. Decide whether the stable-category outcome is a sensitivity analysis (current plan) or the primary outcome.
 3. **Sensitivity grid:** information lag 0/60 days; dismissed violations excluded; Class A/B counts as features; 3- and 12-month horizons.
 4. **RentCast match audit:** hand-check about 100 listings, especially the 513 nearest-point (≤30 m) matches and Manhattan non-matches.

diff --git a/docs/research_plan.md b/docs/research_plan.md
@@ -17,7 +17,7 @@ The outcome is a *recorded* violation. It is not the true condition of a unit. R
 | RQ1. Does event history beat counts? | **H1.** Adding recency, repetition and problem type improves prediction over counts. | Brier(M2b) < Brier(M2a) on the same rows; building-clustered paired bootstrap. |
 | RQ2. Do complaints add information? | **H2.** Conditional on violations, complaint history still improves prediction. | Brier(M2c) < Brier(M2b). |
 | RQ3. Is a complex model worth it? | **H3.** Gradient boosting beats logistic regression on identical inputs. | Brier(M3) < Brier(M2c), out-of-time *and* out-of-district. Secondary hypothesis; may fail. |
-| RQ4. Is reliability spatially uneven? | **H4.** Performance falls in held-out districts, and calibration error is larger where records are sparser. | Held-out vs in-district metrics at the same origin; per-district observed/expected ratio against record density. |
+| RQ4. Is reliability spatially uneven? | **H4.** Performance falls in held-out districts, and calibration error is larger where records are sparser. **H4b.** District context known at *t* reduces district-level miscalibration. | Held-out vs in-district metrics at the same origin; per-district observed/expected ratio against record density; M2c vs M2d. |
 | RQ5 (application). What can a listing platform add? | Descriptive. | Share of RentCast listings that match an HPD building and fall inside model scope, by borough and rent quintile. |
 
 H1 and H2 are primary. H3 and H4 are secondary. RQ5 is the bridge to the product and is descriptive only.
@@ -70,6 +70,9 @@ $$\text{trend} = \frac{C^{90}}{90} - \frac{C^{365} - C^{90}}{275}$$
 Example: 9 events in the last 90 days and 9 in the 275 days before. The last 90 days are about 3× the earlier daily rate, and trend ≈ +0.067/day.
 
 The L2 penalty is tuned on the tune origin. Coefficients describe conditional associations, not causal effects.
+
+### M2d: district context (added 6 Oct 2026, before the freeze)
+M2c plus three features describing the building's community district at *t*: the share of in-scope buildings with any Class C in the last 365 and 90 days, and the mean log past-year complaints. They are computed from features, never outcomes. Held-out districts get their own values. M2d is motivated by the dev-stage finding that a place-blind model's district O/E tracks the district event rate (ρ = 0.80). Contrast: M2d − M2c, in-district and in held-out districts (H4b).
 
 ### M3: gradient boosting
 $$F_M(X) = F_0 + \nu \sum_{m=1}^{M} f_m(X), \qquad \hat p^{(3)} = \sigma(F_M(X))$$

diff --git a/docs/decisions.md b/docs/decisions.md
@@ -16,3 +16,4 @@ Append-only. Every change to `code/common.py`, the feature sets or the evaluatio
 | 2026-10-06 | Test origins sealed behind `docs/FROZEN_SPEC.json` | Pre-registration discipline. Dev results may be reported (e.g. in the AAG abstract); test results only after the freeze. | — |
 | 2026-10-06 | **Disclosure:** the first panel build printed outcome base rates for the test origins (0.225–0.231). No model was scored on test rows. The print is now suppressed for test origins. | Transparency about what was seen before the freeze. | No |
 | 2026-10-06 | **Definitional break, 2019.** Class C pest violations rose from ~0.7k/yr (2017–18) to 46.7k (2019), and doors/egress from 3.9k to 19.2k. This is consistent with a reclassification of these conditions as Class C (the legal source is still to be confirmed). All training origins (2020+) have outcome windows after the break, but 2-year lookbacks for the 2020 origins straddle it. Planned sensitivity: an outcome restricted to the categories that were stable across the break (heat/water, lead, structural, mold/leak, gas/electric, detectors). | The outcome definition must be stable across train and test. | Adds a sensitivity analysis |
+| 2026-10-06 | **Added M2d = M2c + district context** (`cd_share_c365`, `cd_share_c90`, `cd_mean_comp365`), computed per community district × origin from in-scope buildings' features at *t*. It is a fifth compared model; M2c is kept. | Dev results showed district O/E tracking the district event rate (ρ = 0.80, range 0.33–1.13) for the place-blind models. Decided before the freeze, at the author's request. Dev result: ρ 0.80 → 0.10; districts with \|O/E−1\| > 0.2 from 8 to 2; held-out ΔBrier −0.0007 [−0.0011, −0.0003]; but districts with < 10% recall at a citywide cut rose from 2 to 8. | Adds a model and a contrast; earlier models unchanged |
